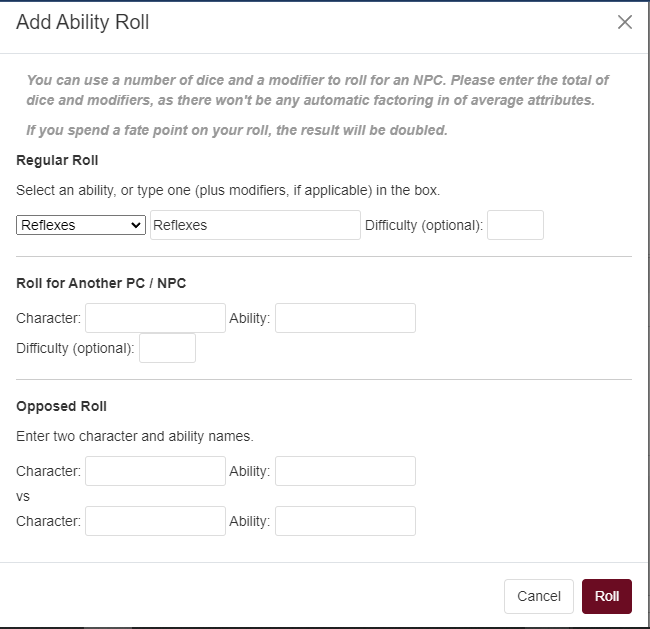
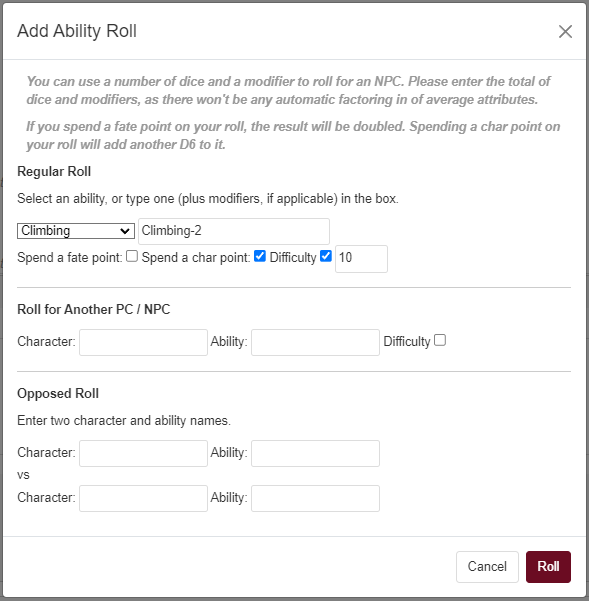
fixes in roll helper

Changed region(s): [[0.0, 0.0, 1.0, 1.0], [0.3362, 0.8087, 0.4278, 0.8386], [0.9779, 0.0899, 1.0, 0.1198]]

diff --git a/plugin/helpers/roll.rb b/plugin/helpers/roll.rb
@@ -49,7 +49,7 @@ module AresMUSH
     end
 
     def self.valid_roll_str(dicestring)
-     return (dicestring.match(/\d+[d|D]6?\+?\d?/) != nil)
+     return (dicestring.match(/^\d+[d|D]6?([\+|\-]\d+)?$/) != nil)
     end
 
     def self.wild_die(prev_dice)
@@ -120,8 +120,11 @@ module AresMUSH
     def self.add_cp_die(roll_str)
       if (roll_str =~ /\+\d+[d|D]/)  # contains '+<number>D'
          str = roll_str.gsub(/(\d+)[d|D]/) {|s| (s.to_i + 1).to_s + 'D'}
-      elsif (roll_str =~ /\+\d+/)  # contains '+<number modifier>'
-         str = roll_str.gsub(/(\+\d+)/, '+1D\1')
+      elsif (roll_str =~ /\-\d+[d|D]/)  # contains '-<number>D'
+         str = roll_str.gsub(/(\d+)[d|D]/) {|s| (s.to_i - 1).to_s + 'D'}
+         str = str.gsub(/\-0[d|D]6?/,"") # remove -0D modifier, if there is one
+      elsif (roll_str =~ /[+|-]\d+/)  # only contains '+/-<number modifier>'
+         str = roll_str.gsub(/([+|-]\d+)/, '+1D\1')  # add +1D modifier before numerical modifier
       else
          str = roll_str + "+1D"
       end
